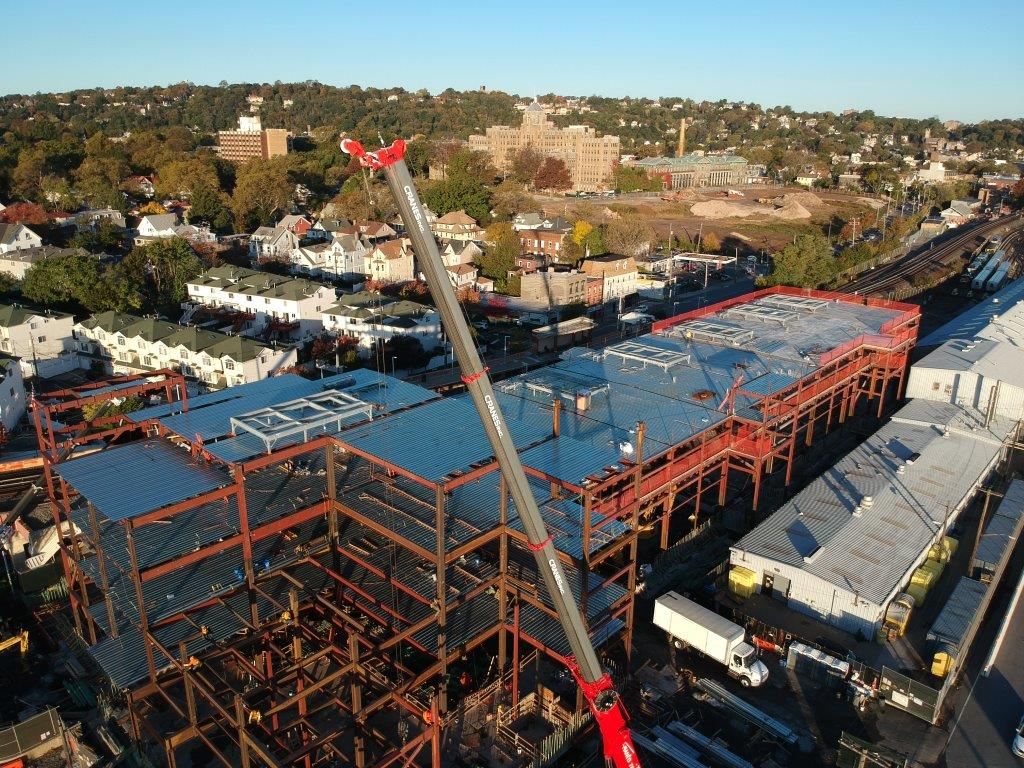
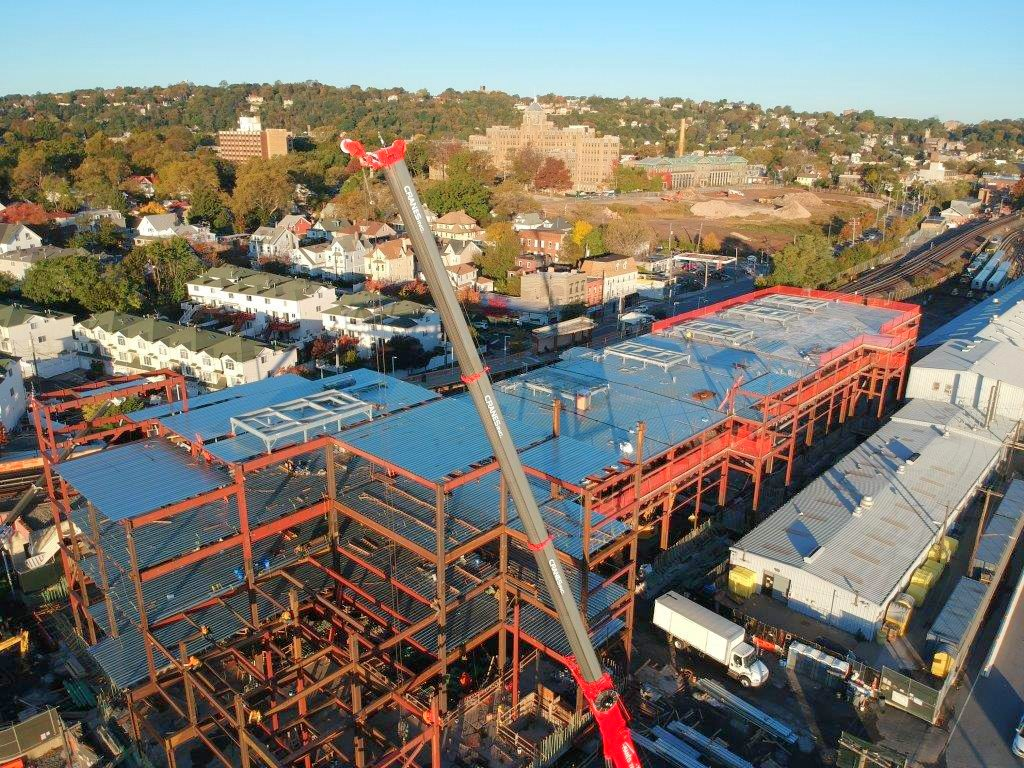
Scope photo tint to text-bearing images, correct Clifton yard exposure
Jackie Boros, July 22: the June 11 "all pictures should be bright"
instruction is revised. A photo gets a tint only where copy sits on it.

Task 1: tint scoped to text-bearing images only
- Rebuild every photo scrim on CSS custom properties (--scrim-peak,
  --scrim-edge, --scrim-rx/ry, --scrim-cx/cy, --photo-lift). No inline
  styles, no baked-in darkened JPEGs: the scrim is a gradient layer over
  a clean source file so it stays tunable.
- Tune the scrim per photo, not with one global value. Each --scrim-peak
  is the lowest that holds 4.5:1 for body copy and 3:1 for display
  headings over that specific picture, measured against the actual
  pixels under each line of type. Values range 0.50 to 0.80.
- Scrim is strong only where the copy sits and releases to --scrim-edge
  across the rest of the frame. Left-weighted for column layouts,
  centred for centred copy, and offset off the subject on the About
  banner so the Weir sign stays clear.
- Remove the blanket passes: page-hero--bright (brightness 1.2 across
  three pages) and the shared brightness 1.1 on every parallax band.
  Replaced by per-page modifier classes carrying their own tokens.
- Strip the leftover inline brightness filter from the About family
  photo, which carries no copy and now renders clean.
- Fix two contrast failures this exposed: the parallax eyebrow was
  maroon on a dark scrim at 1.04:1, and the on-photo gold needed
  lifting so the scrims could come down instead of every photo going
[…]

diff --git a/assets/css/styles.css b/assets/css/styles.css
@@ -44,6 +44,43 @@
   --ease: cubic-bezier(0.16, 1, 0.3, 1);
   --transition: 0.4s var(--ease);
   --transition-slow: 0.8s var(--ease);
+
+  /* --- PHOTO SCRIM TOKENS ---------------------------------------------
+     RULE: a photo carries a scrim IF AND ONLY IF copy is rendered on top
+     of it. Every other photo renders clean, at full brightness, with no
+     tint layer and no filter.
+
+     The scrim is a gradient layer over a clean source file, never a baked
+     darkened JPEG, so it stays tunable. It is strong only where the copy
+     actually sits and falls away to --scrim-edge so the rest of the
+     picture reads at true brightness. Override the tokens per photo on
+     the section: there is deliberately no single global value.
+
+       --scrim-peak   alpha directly beneath the copy
+       --scrim-edge   alpha at the far side of the frame
+       --photo-lift   per-photo brightness, 1 = untouched source
+       --scrim-rx/ry  radii of the centred scrim, as % of the frame
+       --scrim-cx/cy  where the scrim centres, so it can sit off the
+                      subject of the picture (the Weir sign, for one)
+     ------------------------------------------------------------------ */
+  --scrim-tint: 30, 32, 40;
+  --scrim-peak: 0.72;
+  --scrim-edge: 0.06;
+  --photo-lift: 1;
+  --scrim-rx: 62%;
+  --scrim-ry: 96%;
+  --scrim-cx: 50%;
+  --scrim-cy: 50%;
+  /* Vertical reach of the narrow-screen band, where the scrim runs full width. */
+  --scrim-ry-narrow: 74%;
+  --scrim-cy-narrow: 50%;
+
+  /* Gold label wherever it sits on a photo. Lifted from the flat-background
+     gold (#d9b85a) because at 14px that value only clears 4.5:1 against a
+     near-black backing: holding the brand gold here would have meant scrimming
+     every photo almost opaque. This keeps the photos bright and the label
+     legible, and applies ONLY over photos. Flat backgrounds keep #d9b85a. */
+  --color-eyebrow-on-photo: #e8cf8f;
 }
 
 /* --- RESET --- */
@@ -303,16 +340,23 @@ p + p { margin-top: 1rem; }
   from { transform: scale(1); }
   to { transform: scale(1.08); }
 }
+/* Copy sits in a left-hand column, so the scrim is weighted left and released
+   across the right of the frame where the photo carries the picture. */
 .hero__overlay {
   position: absolute;
   inset: 0;
-  background: linear-gradient(
-    135deg,
-    rgba(30,32,40,0.45) 0%,
-    rgba(30,32,40,0.20) 40%,
-    rgba(30,32,40,0.05) 100%
-  );
+  background: linear-gradient(90deg,
+    rgba(var(--scrim-tint), var(--scrim-peak)) 0%,
+    rgba(var(--scrim-tint), calc(var(--scrim-peak) * 0.97)) 56%,
+    rgba(var(--scrim-tint), calc(var(--scrim-peak) * 0.30)) 80%,
+    rgba(var(--scrim-tint), var(--scrim-edge)) 93%,
+    rgba(var(--scrim-tint), var(--scrim-edge)) 100%);
 }
+/* The four slides are different exposures, so the scrim is set by whichever of
+   them needs the most: slide 4 (bridge crane, open sky) drives the value.
+   On a phone this hero's copy runs from 6% to 92% of the frame, so the narrow
+   band has to reach top to bottom here: there is no clear picture left to hold. */
+.hero { --scrim-peak: 0.80; --scrim-edge: 0.05; --scrim-ry-narrow: 104%; }
 .hero__content {
   position: relative;
   z-index: 2;
@@ -325,7 +369,7 @@ p + p { margin-top: 1rem; }
   font-size: var(--text-sm);
   text-transform: uppercase;
   letter-spacing: 0.2em;
-  color: #d9b85a;
+  color: var(--color-eyebrow-on-photo);
   margin-bottom: 1rem;
 }
 .hero h1, .hero h2, .hero h3 { color: var(--color-white); }
@@ -378,25 +422,10 @@ p + p { margin-top: 1rem; }
   width: 100%;
   height: 100%;
   object-fit: cover;
+  filter: brightness(var(--photo-lift));
 }
 /* Taller banner so the photo reads at a larger scale. */
 .page-hero--tall { min-height: 68vh; }
-/* Brightens the photo toward the original the client sent, then shades ONLY the
-   center where the heading sits (a soft radial) instead of a flat dark wash, so
-   the edges of the picture read at true brightness. Text-shadow keeps the
-   centered copy legible over the brighter image. */
-.page-hero--bright .page-hero__bg img {
-  filter: brightness(1.2) contrast(0.98) saturate(1.04);
-}
-.page-hero--bright .page-hero__overlay {
-  background: radial-gradient(ellipse 92% 82% at 50% 50%,
-    rgba(30,32,40,0.54) 0%,
-    rgba(30,32,40,0.34) 46%,
-    rgba(30,32,40,0.10) 100%);
-}
-.page-hero--bright .page-hero__content {
-  text-shadow: 0 2px 18px rgba(0,0,0,0.55);
-}
 /* The Weir sign panorama (2947x995) drives the banner height, so the photo runs
    full width at its own aspect ratio and the sign is never cropped. */
 .page-hero--sign {
@@ -412,15 +441,39 @@ p + p { margin-top: 1rem; }
   .page-hero--sign { aspect-ratio: auto; min-height: 52vh; }
   .page-hero--sign .page-hero__content { padding-top: 4rem; padding-bottom: 0; }
 }
+/* Inner-page copy is centred, so the scrim is a soft centred ellipse rather
+   than a flat wash: the middle carries the heading, the edges of the picture
+   stay at true brightness. Tuned per photo via the modifiers below. */
 .page-hero__overlay {
   position: absolute;
   inset: 0;
-  background: linear-gradient(180deg, rgba(30,32,40,0.35), rgba(30,32,40,0.55));
+  background: radial-gradient(ellipse var(--scrim-rx) var(--scrim-ry) at var(--scrim-cx) var(--scrim-cy),
+    rgba(var(--scrim-tint), var(--scrim-peak)) 0%,
+    rgba(var(--scrim-tint), calc(var(--scrim-peak) * 0.96)) 46%,
+    rgba(var(--scrim-tint), calc(var(--scrim-peak) * 0.34)) 76%,
+    rgba(var(--scrim-tint), var(--scrim-edge)) 92%,
+    rgba(var(--scrim-tint), var(--scrim-edge)) 100%);
 }
+/* Per-photo scrim strength. Each value is the lowest that holds 4.5:1 for body
+   copy and 3:1 for the display heading over that specific picture, measured
+   against the actual pixels under each line of type, plus a small margin for
+   the narrower breakpoints. No photo is darkened more than its own exposure
+   requires, which is why these values are all different. */
+/* The sign is the subject and sits in the lower third, so this scrim rides
+   above it: centred at 42% with a shorter vertical radius, releasing the
+   bottom of the frame where the sign actually is. */
+.page-hero--sign     { --scrim-peak: 0.50; --scrim-edge: 0.12;
+                       --scrim-ry: 62%; --scrim-cy: 42%; }  /* weir-sign, dusk */
+.page-hero--contact  { --scrim-peak: 0.74; --scrim-edge: 0.10; }  /* shop-interior-beams */
+.page-hero--services { --scrim-peak: 0.74; --scrim-edge: 0.08; }  /* fabrication-shop-interior */
+.page-hero--projects { --scrim-peak: 0.78; --scrim-edge: 0.08; }  /* clifton-yards, open sky */
+.page-hero--plants   { --scrim-peak: 0.80; --scrim-edge: 0.08; }  /* bethlehem aerial, brightest */
+
 .page-hero__content {
   position: relative;
   z-index: 2;
   padding-top: 5rem;
+  text-shadow: 0 2px 18px rgba(0,0,0,0.55);
 }
 .page-hero__eyebrow {
   display: block;
@@ -428,7 +481,7 @@ p + p { margin-top: 1rem; }
   font-size: var(--text-sm);
   text-transform: uppercase;
   letter-spacing: 0.2em;
-  color: #d9b85a;
+  color: var(--color-eyebrow-on-photo);
   margin-bottom: 0.5rem;
 }
 .page-hero h1, .page-hero h2, .page-hero h3 { color: var(--color-white); }
@@ -443,7 +496,7 @@ p + p { margin-top: 1rem; }
   color: rgba(255,255,255,0.85);
   margin-top: 1rem;
 }
-.breadcrumb a { color: #d9b85a; }
+.breadcrumb a { color: var(--color-eyebrow-on-photo); }
 .breadcrumb a:hover { text-decoration: underline; }
 .breadcrumb span { margin: 0 0.5rem; color: rgba(255,255,255,0.6); }
 
@@ -612,7 +665,7 @@ p + p { margin-top: 1rem; }
   width: 100%;
   height: 100%;
   object-fit: cover;
-  filter: brightness(1.1) contrast(0.98);
+  filter: brightness(var(--photo-lift));
 }
 /* Copy sits in a left-hand column, so shade the left and let the right side of
    the photo (flag, sign, trucks) show at true brightness instead of a flat wash. */
@@ -620,10 +673,48 @@ p + p { margin-top: 1rem; }
   position: absolute;
   inset: 0;
   background: linear-gradient(90deg,
-    rgba(30,32,40,0.74) 0%,
-    rgba(30,32,40,0.56) 30%,
-    rgba(30,32,40,0.18) 62%,
-    rgba(30,32,40,0.04) 100%);
+    rgba(var(--scrim-tint), var(--scrim-peak)) 0%,
+    rgba(var(--scrim-tint), calc(var(--scrim-peak) * 0.96)) 50%,
+    rgba(var(--scrim-tint), calc(var(--scrim-peak) * 0.28)) 76%,
+    rgba(var(--scrim-tint), var(--scrim-edge)) 92%,
+    rgba(var(--scrim-tint), var(--scrim-edge)) 100%);
+}
+/* Where the band centres its copy instead, the scrim has to centre with it or
+   the heading runs off the shaded side of the frame. */
+.parallax-section:has(.parallax-section__content.text-center) .parallax-section__overlay {
+  background: radial-gradient(ellipse 82% 78% at 50% 50%,
+    rgba(var(--scrim-tint), var(--scrim-peak)) 0%,
+    rgba(var(--scrim-tint), calc(var(--scrim-peak) * 0.94)) 52%,
+    rgba(var(--scrim-tint), calc(var(--scrim-peak) * 0.38)) 80%,
+    rgba(var(--scrim-tint), var(--scrim-edge)) 100%);
+}
+/* Per-photo scrim strength for the image bands. */
+.parallax-section--topping     { --scrim-peak: 0.80; --scrim-edge: 0.04; }
+.parallax-section--fleet       { --scrim-peak: 0.78; --scrim-edge: 0.04; }
+.parallax-section--connections { --scrim-peak: 0.64; --scrim-edge: 0.06; }
+
+/* Below the column breakpoint the copy stops sitting in a lane and runs the
+   full width, so there is no clean side left to release. The scrim turns into a
+   horizontal band instead: full strength across the width where the type is,
+   releasing at the top and bottom of the frame so the picture still opens up
+   above and below the copy rather than going flat under one wash. Strength is
+   still each photo's own token. */
+@media (max-width: 1024px) {
+  .hero__overlay,
+  .page-hero__overlay,
+  .parallax-section__overlay,
+  .parallax-section:has(.parallax-section__content.text-center) .parallax-section__overlay {
+    background: radial-gradient(ellipse 150% var(--scrim-ry-narrow) at 50% var(--scrim-cy-narrow),
+      rgba(var(--scrim-tint), var(--scrim-peak)) 0%,
+      rgba(var(--scrim-tint), calc(var(--scrim-peak) * 0.96)) 54%,
+      rgba(var(--scrim-tint), calc(var(--scrim-peak) * 0.40)) 84%,
+      rgba(var(--scrim-tint), var(--scrim-edge)) 100%);
+  }
+}
+/* The eyebrow rides the same photo as the heading, so it takes the on-photo
+   colour rather than the maroon used against flat page backgrounds. */
+.parallax-section__content .section-header__eyebrow {
+  color: var(--color-eyebrow-on-photo);
 }
 .parallax-section__content {
   position: relative;

diff --git a/plants.html b/plants.html
@@ -40,7 +40,7 @@
   </div>
 
   <!-- PAGE HERO -->
-  <section class="page-hero page-hero--tall page-hero--bright" id="main-content">
+  <section class="page-hero page-hero--tall page-hero--plants" id="main-content">
     <div class="page-hero__bg">
       <img src="assets/images/plant-bethlehem-aerial-800w.jpg"
            srcset="assets/images/plant-bethlehem-aerial-800w.jpg 800w, assets/images/plant-bethlehem-aerial-1200w.jpg 1200w"
@@ -138,7 +138,7 @@
   </section>
 
   <!-- FLEET SECTION -->
-  <section class="parallax-section parallax-section--tall parallax-section--padded">
+  <section class="parallax-section parallax-section--tall parallax-section--padded parallax-section--fleet">
     <div class="parallax-section__bg">
       <img src="assets/images/weir-trucks-1200w.jpg"
            srcset="assets/images/weir-trucks-800w.jpg 800w, assets/images/weir-trucks-1200w.jpg 1200w"

diff --git a/projects.html b/projects.html
@@ -40,7 +40,7 @@
   </div>
 
   <!-- PAGE HERO -->
-  <section class="page-hero page-hero--tall page-hero--bright" id="main-content">
+  <section class="page-hero page-hero--tall page-hero--projects" id="main-content">
     <div class="page-hero__bg">
       <img src="assets/images/clifton-yards-1024w.jpg"
            srcset="assets/images/clifton-yards-800w.jpg 800w, assets/images/clifton-yards-1024w.jpg 1024w"
@@ -295,7 +295,7 @@
   </section>
 
   <!-- PRESTIGE IMAGE -->
-  <section class="parallax-section">
+  <section class="parallax-section parallax-section--connections">
     <div class="parallax-section__bg">
       <img src="assets/images/steel-connections-detail-800w.jpg"
            srcset="assets/images/steel-connections-detail-800w.jpg 800w, assets/images/steel-connections-detail-1200w.jpg 1200w"

diff --git a/about.html b/about.html
@@ -88,7 +88,7 @@
           <img src="assets/images/weir-family-legacy-800w.jpg"
                alt="The Weir family - three generations in the fabrication shop"
                width="800" height="600" loading="lazy"
-               style="border-radius:var(--radius-lg);width:100%;height:auto;filter:brightness(1.18) contrast(0.96);">
+               style="border-radius:var(--radius-lg);width:100%;height:auto;">
         </div>
       </div>
     </div>

diff --git a/services.html b/services.html
@@ -40,7 +40,7 @@
   </div>
 
   <!-- PAGE HERO -->
-  <section class="page-hero page-hero--tall page-hero--bright" id="main-content">
+  <section class="page-hero page-hero--tall page-hero--services" id="main-content">
     <div class="page-hero__bg">
       <img src="assets/images/fabrication-shop-interior-800w.jpg"
            srcset="assets/images/fabrication-shop-interior-800w.jpg 800w, assets/images/fabrication-shop-interior-1200w.jpg 1200w"

diff --git a/index.html b/index.html
@@ -229,7 +229,7 @@
   </section>
 
   <!-- ==================== NYC PRESTIGE ==================== -->
-  <section class="parallax-section parallax-section--tall">
+  <section class="parallax-section parallax-section--tall parallax-section--topping">
     <div class="parallax-section__bg">
       <img src="assets/images/topping-out-1200w.jpg"
            srcset="assets/images/topping-out-800w.jpg 800w,

diff --git a/contact.html b/contact.html
@@ -40,7 +40,7 @@
   </div>
 
   <!-- PAGE HERO -->
-  <section class="page-hero" id="main-content">
+  <section class="page-hero page-hero--contact" id="main-content">
     <div class="page-hero__bg">
       <img src="assets/images/shop-interior-beams-800w.jpg"
            srcset="assets/images/shop-interior-beams-800w.jpg 800w, assets/images/shop-interior-beams-1200w.jpg 1200w"
